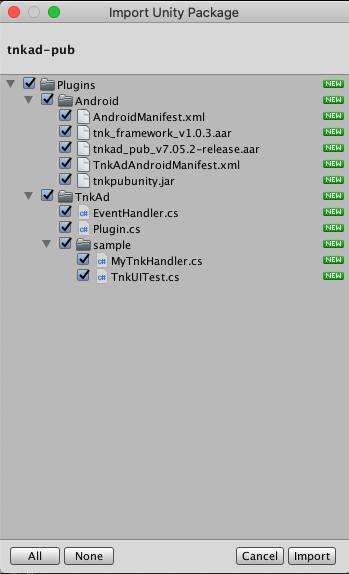
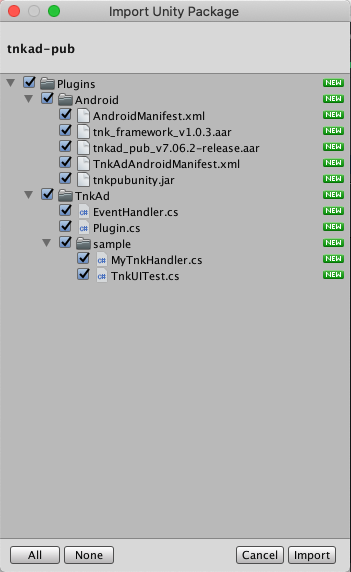
v7.06.2 Update

Changed region(s): [[0.0, 0.0, 1.0, 1.0]]

diff --git a/ReadMe.md b/ReadMe.md
@@ -20,8 +20,12 @@ Tnk Pub SDK는 아래의 기능들을 사용하실 수 있습니다.
 
 ### Update Notice
 
+* 2020.06.17
+  * Android SDK v7.06.2 업데이트
+    * 내부 기능 개선
 * 2020.05.12
   * Android SDK v7.05.2 업데이트
+    * 내부 기능 개선
 
 
 
@@ -33,6 +37,8 @@ Tnk Pub SDK는 아래의 기능들을 사용하실 수 있습니다.
 
 ### Update Notice
 
+* 2020.06.17
+  * Android SDK v7.06.2 적용
 * 2020.06.12
   * Android SDK v7.05.2 적용
 

diff --git a/Migration_Guide.md b/Migration_Guide.md
@@ -69,7 +69,7 @@ dependencies {
 
 ```gradle
 dependencies {
-    implementation 'com.tnkfactory.ad:pub:7.05.2'
+    implementation 'com.tnkfactory.ad:pub:7.06.2'
 }
 ```
 

diff --git a/Android_Guide.md b/Android_Guide.md
@@ -46,7 +46,7 @@
 
 ```gradle
 dependencies {
-    implementation 'com.tnkfactory.ad:pub:7.05.2'
+    implementation 'com.tnkfactory.ad:pub:7.06.2'
 }
 ```
 
